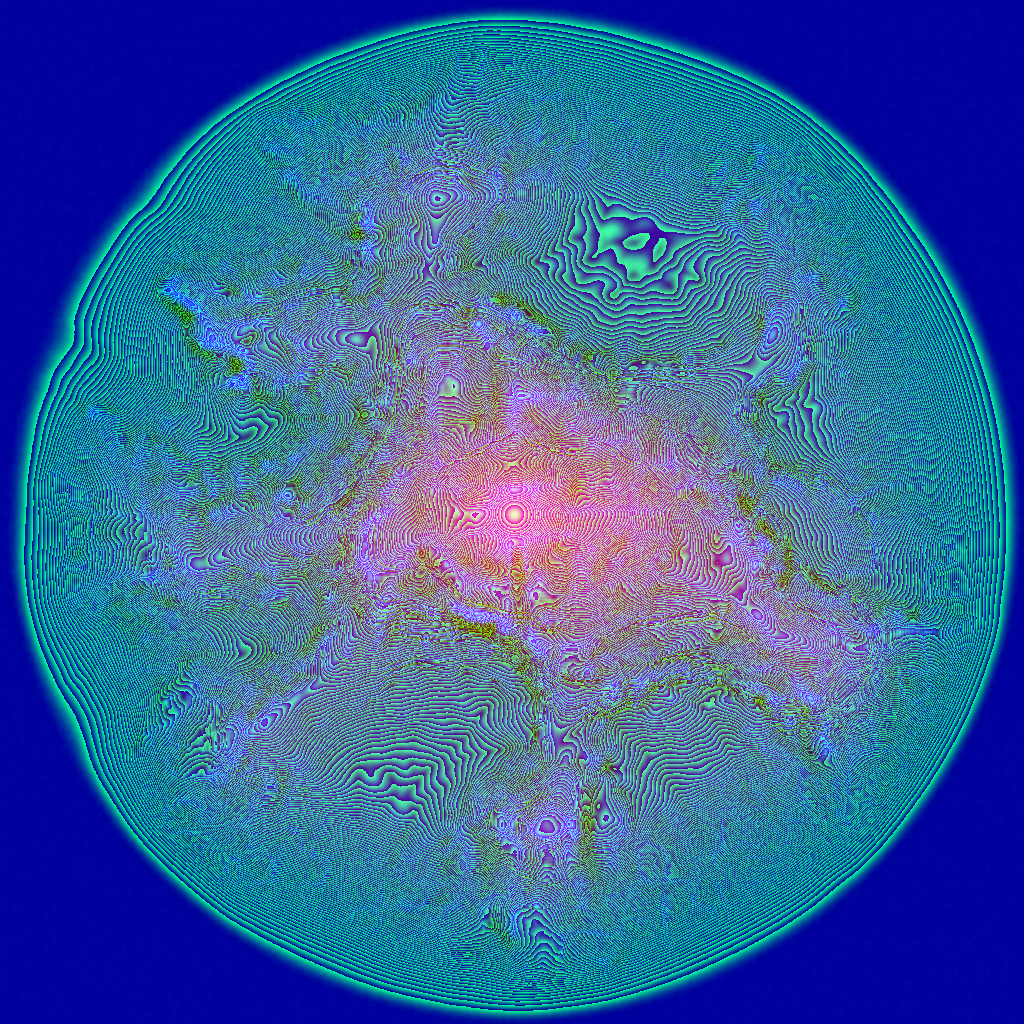
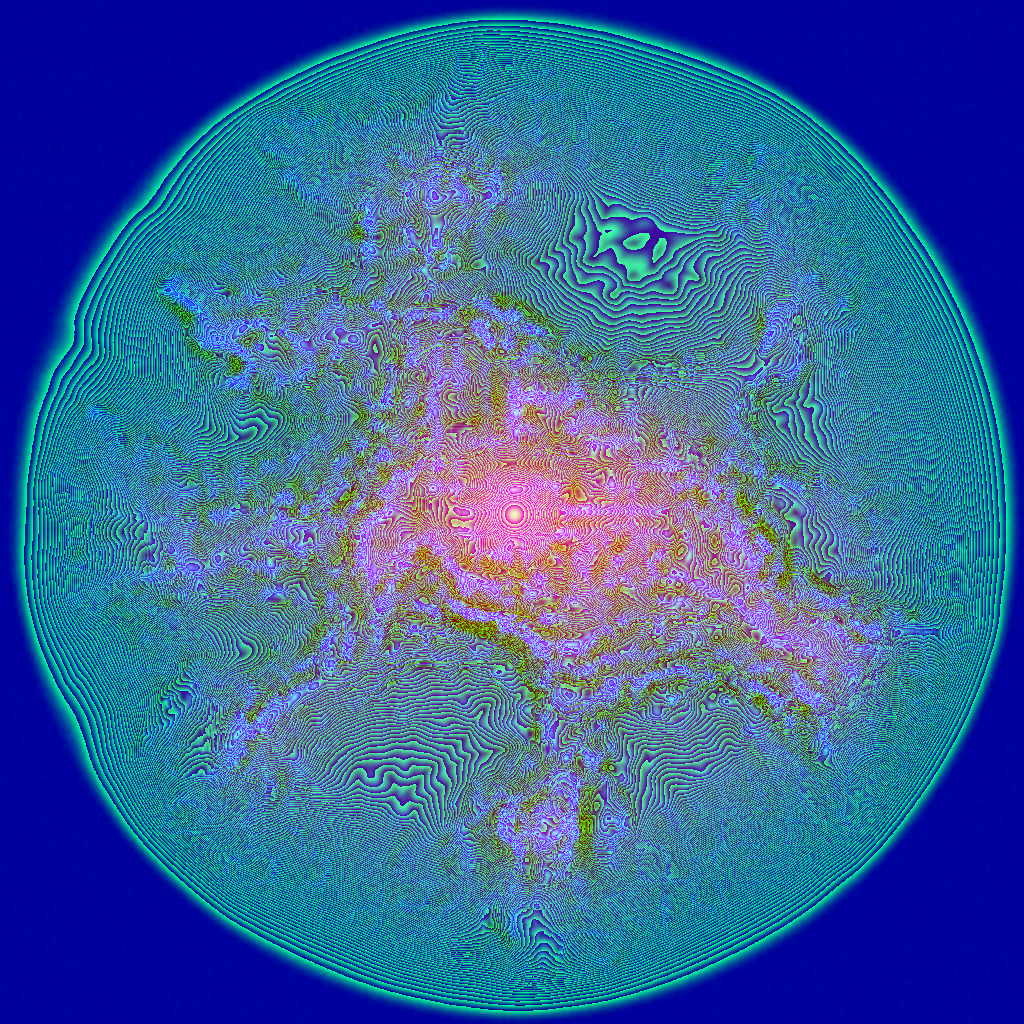
Crisper Kailash ridges; blue skylight in shaded snow
Sharpen the smoothed SRTM shape at three scales in the bake so crests read as
edges, tighten snow edges, and tint shaded snow with skylight.

Claude-Session: https://claude.ai/code/session_01LiewS1AJxVwsnwhKmidcjQ

Changed region(s): [[0.125, 0.125, 0.9062, 0.9062], [0.3438, 0.7812, 0.4062, 0.8438]]

diff --git a/index.html b/index.html
@@ -731,7 +731,7 @@ void main(){
   vec3 p=ro+rd*t; vec2 muv=toUV(p.xz);
   vec3 q=(p-vec3(uMount.x,0.0,uMount.y))/uMK; // detail coordinates stay the same size on the rock whatever the scale
   // normal from the height map (1.5 texels apart, so the bilinear cells don't show)
-  float e=uMount.z*2.0/NT*1.5;
+  float e=uMount.z*2.0/NT*1.1;
   float hx=H(p.xz+vec2(e,0.0))-H(p.xz-vec2(e,0.0)), hz=H(p.xz+vec2(0.0,e))-H(p.xz-vec2(0.0,e));
   vec3 n=normalize(vec3(-hx,2.0*e,-hz));
   float cav=hc(muv).y;
@@ -768,7 +768,7 @@ void main(){
   float brk=fbm(q*9.0+vec3(3.0)), brk2=fbm(q*26.0+vec3(8.0));
   float rl=dot(ra,vec3(0.3,0.5,0.2)); // the scan's brightness: lit ledge tops are bright, cracks dark
   float hiF=smoothstep(0.40,0.80,hn);
-  float snow=smoothstep(0.22,0.40,sm*1.15+0.10+hiF*0.25+(brk-0.5)*0.45+(brk2-0.5)*0.12+(nd.y-n.y)*0.8+(bed-0.5)*0.15);
+  float snow=smoothstep(0.27,0.35,sm*1.15+0.10+hiF*0.25+(brk-0.5)*0.45+(brk2-0.5)*0.12+(nd.y-n.y)*0.8+(bed-0.5)*0.15);
   snow*=smoothstep(-0.10+0.25*(1.0-hiF),0.20+0.25*(1.0-hiF),nd.y+0.45*sm);
   snow=max(snow,smoothstep(0.62,0.80,hn+(brk-0.5)*0.12)*smoothstep(-0.05,0.30,nd.y));
   // rock: dark grey-brown conglomerate; the scan gives the grain and the light/dark structure, little of its orange
@@ -792,7 +792,7 @@ void main(){
   vec3 cloudc=mix(vec3(0.90,0.80,0.70),vec3(0.06,0.08,0.13),uNight); // bounce from the sunlit cloud deck below
   float occ=cav*cav*mix(0.6+0.4*smoothstep(0.1,0.5,rl),1.0,snow); // the scan's dark cracks get less sky
   vec3 c=alb*(sunc*(ndl*sh+wrap*sh)
-            +skyc*(0.55+0.45*N.y)*occ
+            +skyc*mix(vec3(1.0),vec3(1.05,1.25,1.65),snow*(1.0-uNight*0.5))*(0.55+0.45*N.y)*occ // shaded snow glows blue with skylight
             +cloudc*0.22*clamp(0.5-0.5*N.y,0.0,1.0)*smoothstep(1.6,0.6,p.y)*occ);
   // specular from roughness: the rock's own map, and snow that is matte except for wind-glazed icy patches
   vec3 hv=normalize(L-rd);
@@ -802,6 +802,8 @@ void main(){
   float fres=0.04+0.96*pow(1.0-max(dot(N,-rd),0.0),5.0);
   c+=sunc*sh*pow(max(dot(N,hv),0.0),sp)*(sp+2.0)/8.0*fres*mix(0.04,1.0,ice)*0.30*ndl;
   c+=sunc*snow*sh*pow(1.0-max(dot(N,-rd),0.0),5.0)*0.06;
+  // warm edge where the sun grazes the snow (light scattered just under the surface)
+  c+=sunc*vec3(1.0,0.78,0.55)*snow*sh*smoothstep(0.0,0.25,ndl)*(1.0-smoothstep(0.25,0.6,ndl))*0.20*(1.0-uNight);
   // atmosphere: distance haze plus denser haze low down, lit warmer toward the sun
   vec3 sun=normalize(mix(vec3(-0.66,0.27,-0.70),vec3(0.45,0.55,0.7),uNight));
   float mu=max(dot(rd,sun),0.0);

diff --git a/tools/bake_kailash.js b/tools/bake_kailash.js
@@ -21,6 +21,21 @@ function bakeKailash(src,N,Y0,SPAN,SIZE){
       H[r*N+c]=cr(row(-1),row(0),row(1),row(2),ty); } }
   const grad=(A,i)=>{ const r=(i/N)|0,c=i-r*N; const l=A[r*N+Math.max(0,c-1)],R=A[r*N+Math.min(N-1,c+1)],u=A[Math.max(0,r-1)*N+c],d=A[Math.min(N-1,r+1)*N+c];
     return [(R-l)/(2*dx),-(d-u)/(2*dx)]; };
+  // 1b. crisp ridges: SRTM is smoothed, so arêtes come out rounded. Sharpen at two scales (unsharp mask): crests are
+  //     pushed up and narrowed more than hollows are deepened; the summit dome is left alone; nothing below the cloud deck
+  { const bl=(A,rad)=>{ const T=new Float32Array(NN), O=new Float32Array(NN), w=2*rad+1;
+      for(let r=0;r<N;r++){ let s=0; for(let c=-rad;c<=rad;c++) s+=A[r*N+Math.min(N-1,Math.max(0,c))];
+        for(let c=0;c<N;c++){ T[r*N+c]=s/w; s+=A[r*N+Math.min(N-1,c+rad+1)]-A[r*N+Math.max(0,c-rad)]; } }
+      for(let c=0;c<N;c++){ let s=0; for(let r=-rad;r<=rad;r++) s+=T[Math.min(N-1,Math.max(0,r))*N+c];
+        for(let r=0;r<N;r++){ O[r*N+c]=s/w; s+=T[Math.min(N-1,r+rad+1)*N+c]-T[Math.max(0,r-rad)*N+c]; } }
+      return O; };
+    let mi=0; for(let i=1;i<NN;i++) if(H[i]>H[mi]) mi=i; const r0=(mi/N)|0, c0=mi-r0*N;
+    for(const [rad,kU,kD] of [[30,0.45,0.30],[9,0.80,0.35],[4,0.55,0.25]]){
+      const B1=bl(bl(H,rad),rad);
+      for(let i=0;i<NN;i++){ const r=(i/N)|0, c=i-r*N, d2=((r-r0)**2+(c-c0)**2)*dx*dx;
+        const hn=(H[i]-Y0)/SPAN, D=H[i]-B1[i];
+        const m=sst(0.25,0.45,hn)*sst(0.02,0.08,d2);
+        H[i]+=(D>0?D*kU:D*kD)*m; } } }
   // coarse steepness (from the smooth data) decides where cliffs and strata go
   const steep=new Float32Array(NN), top=Y0+SPAN;
   for(let i=0;i<NN;i++){ const g=grad(H,i); steep[i]=sst(0.70,1.45,Math.hypot(g[0],g[1])); }

diff --git a/docs/WORKLOG.md b/docs/WORKLOG.md
@@ -24,6 +24,12 @@ Read this before working. After a change, add a dated entry at the top of **Log*
 
 ## Log
 
+### 2026-10-22: crisper ridges, blue shaded snow
+- Puli agreed to tackle the smooth, rounded outline first.
+- Bake (`tools/bake_kailash.js`, step 1b): unsharp-mask sharpening of the SRTM shape at three scales (blur radius 30/9/4 texels; crests raised 0.45/0.80/0.55 of their excess, hollows deepened 0.30/0.35/0.25), only above 25–45% height and not on the summit dome. A first try at 1.1/1.3 turned the shoulders into flat-topped castles. Maps re-baked.
+- `fsM`: normals from 1.1 texels apart (was 1.5); sharper snow/rock edges (smoothstep 0.27–0.35); snow in shade takes a blue skylight tint; a warm band where the sun grazes the snow.
+- Next ideas if he still wants more realism: light and colour of the shaded faces, sharper snow-rock contact detail, and the outline at the base.
+
 ### 2026-10-22: much more snow; spindrift as real grains
 - Puli: the blowing snow looked like a glow, not snow blowing off (the summit was fine); the mountain needs a lot more snow; still not realistic enough.
 - The glow was the crest wisps in the low-res cloud pass (at 0.32–0.5 resolution they can only be soft). They are switched off (`if(false)` in `spindrift()`); the summit plume stays, its march box now covers only the plume.
